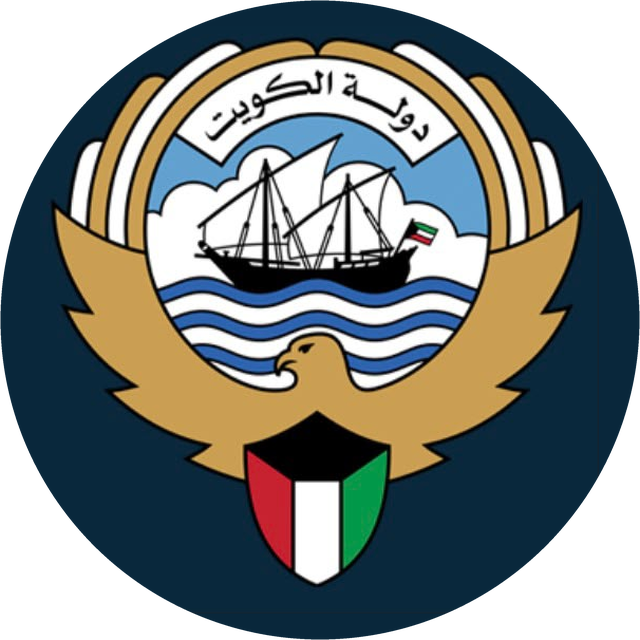
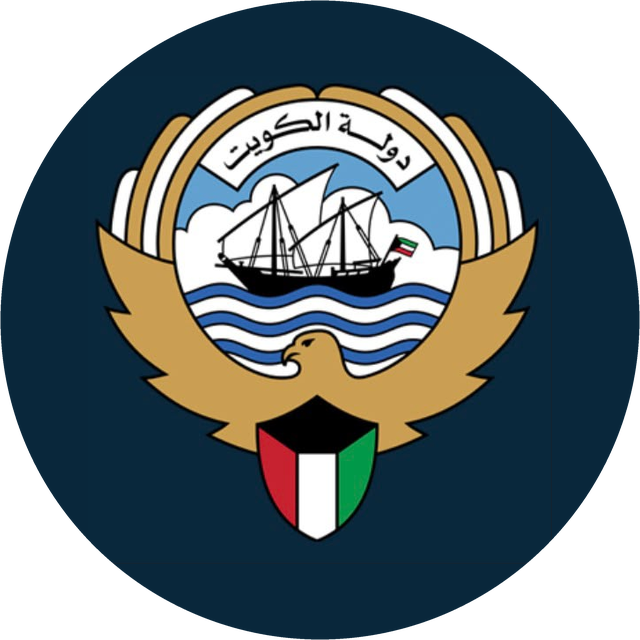
Fix Kuwait crest so the full coat of arms fits in the header
Stop object-cover cropping the falcon and shield; contain the emblem in a circular badge.

diff --git a/src/components/kuwait-crest.tsx b/src/components/kuwait-crest.tsx
@@ -1,12 +1,16 @@
 export function KuwaitCrest({ className }: { className?: string }) {
   return (
-    <img
-      src="/moh/crest.png"
-      alt=""
-      width={80}
-      height={80}
-      className={className}
-      decoding="async"
-    />
+    <span
+      className={`grid shrink-0 place-items-center overflow-hidden rounded-full bg-[#09283C] ring-1 ring-white/25 ${className ?? "size-16"}`}
+    >
+      <img
+        src="/moh/crest.png"
+        alt=""
+        width={80}
+        height={80}
+        className="h-[82%] w-[82%] object-contain"
+        decoding="async"
+      />
+    </span>
   );
 }

diff --git a/src/components/site-header.tsx b/src/components/site-header.tsx
@@ -165,7 +165,7 @@ export function SiteHeader() {
             className="flex min-w-0 items-center gap-3 text-white no-underline sm:gap-4"
             aria-label={t("brandLine")}
           >
-            <KuwaitCrest className="size-[3.85rem] shrink-0 rounded-full object-cover ring-1 ring-white/25 sm:size-[4.75rem]" />
+            <KuwaitCrest className="size-[3.85rem] sm:size-[4.75rem]" />
             <span className="min-w-0">
               <span className="block font-display text-lg font-extrabold leading-[1.15] sm:text-xl">
                 {t("mohArabic")}
